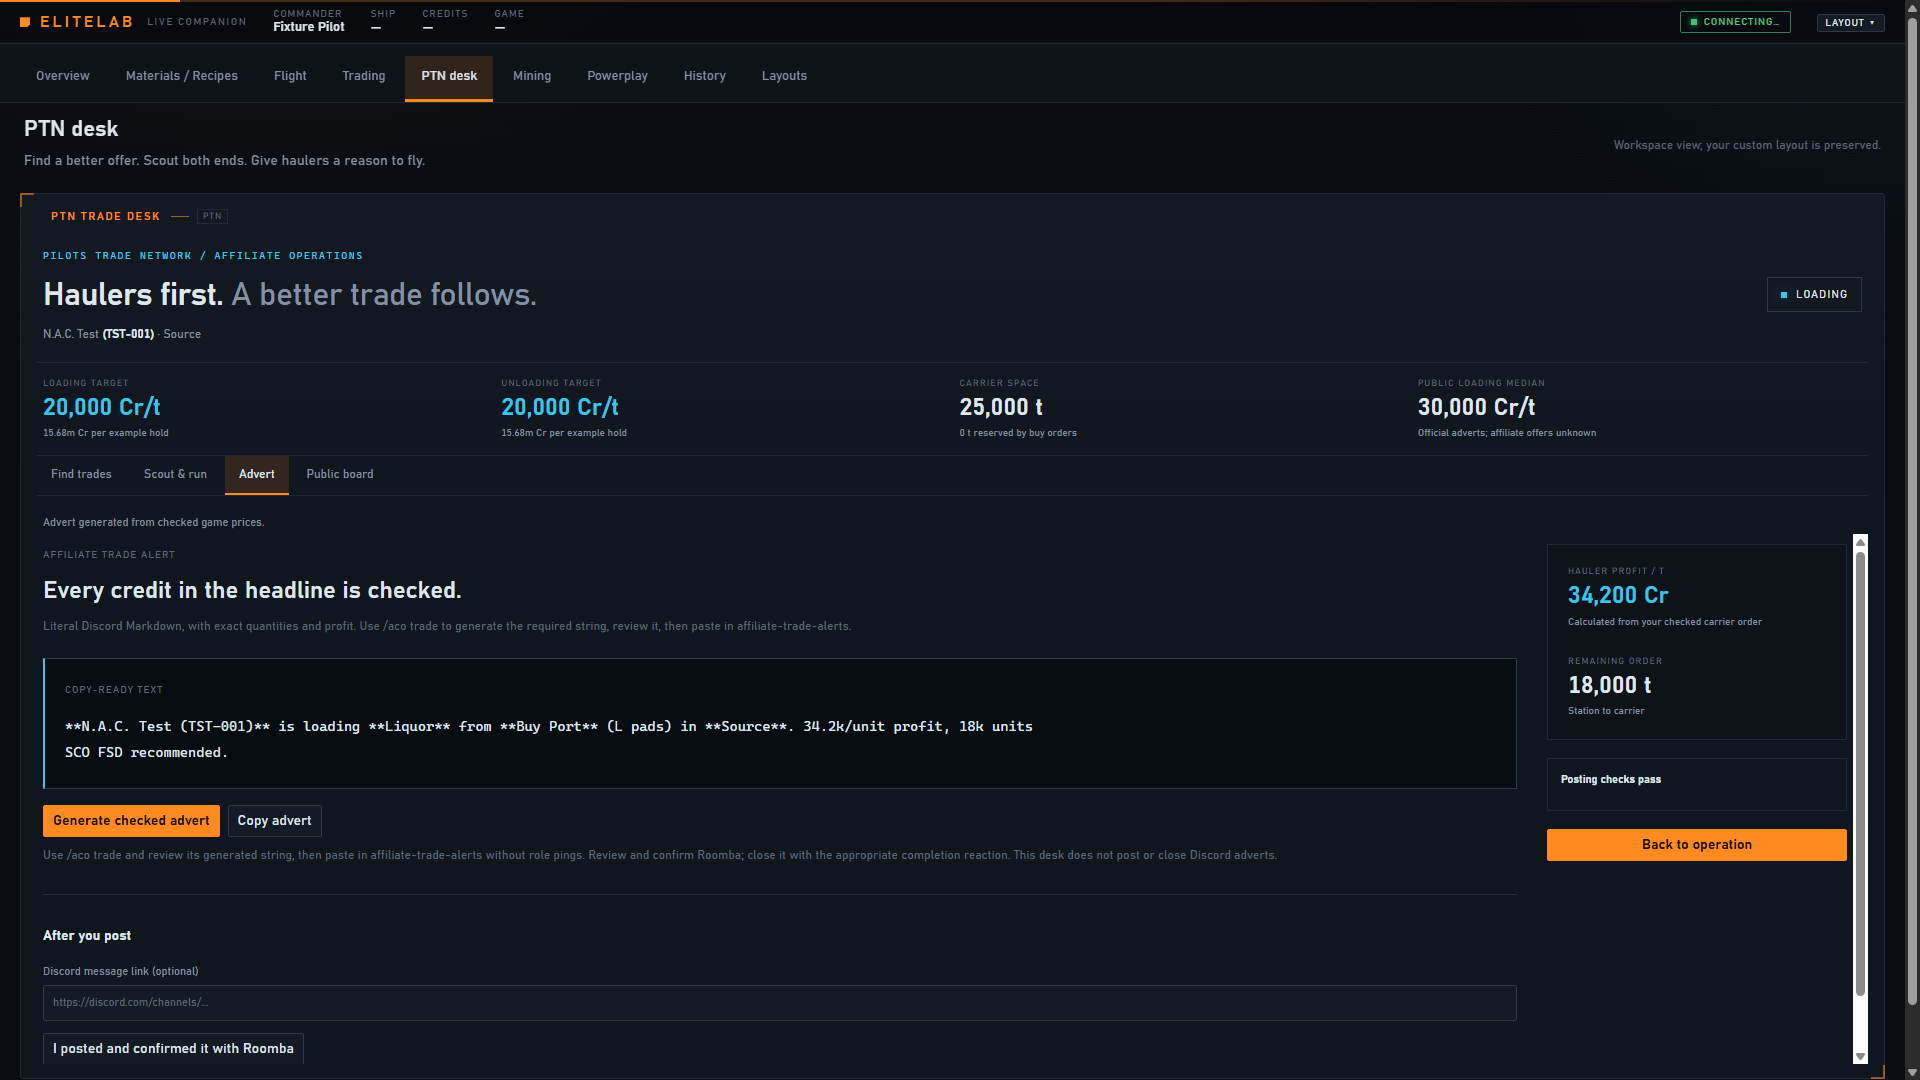
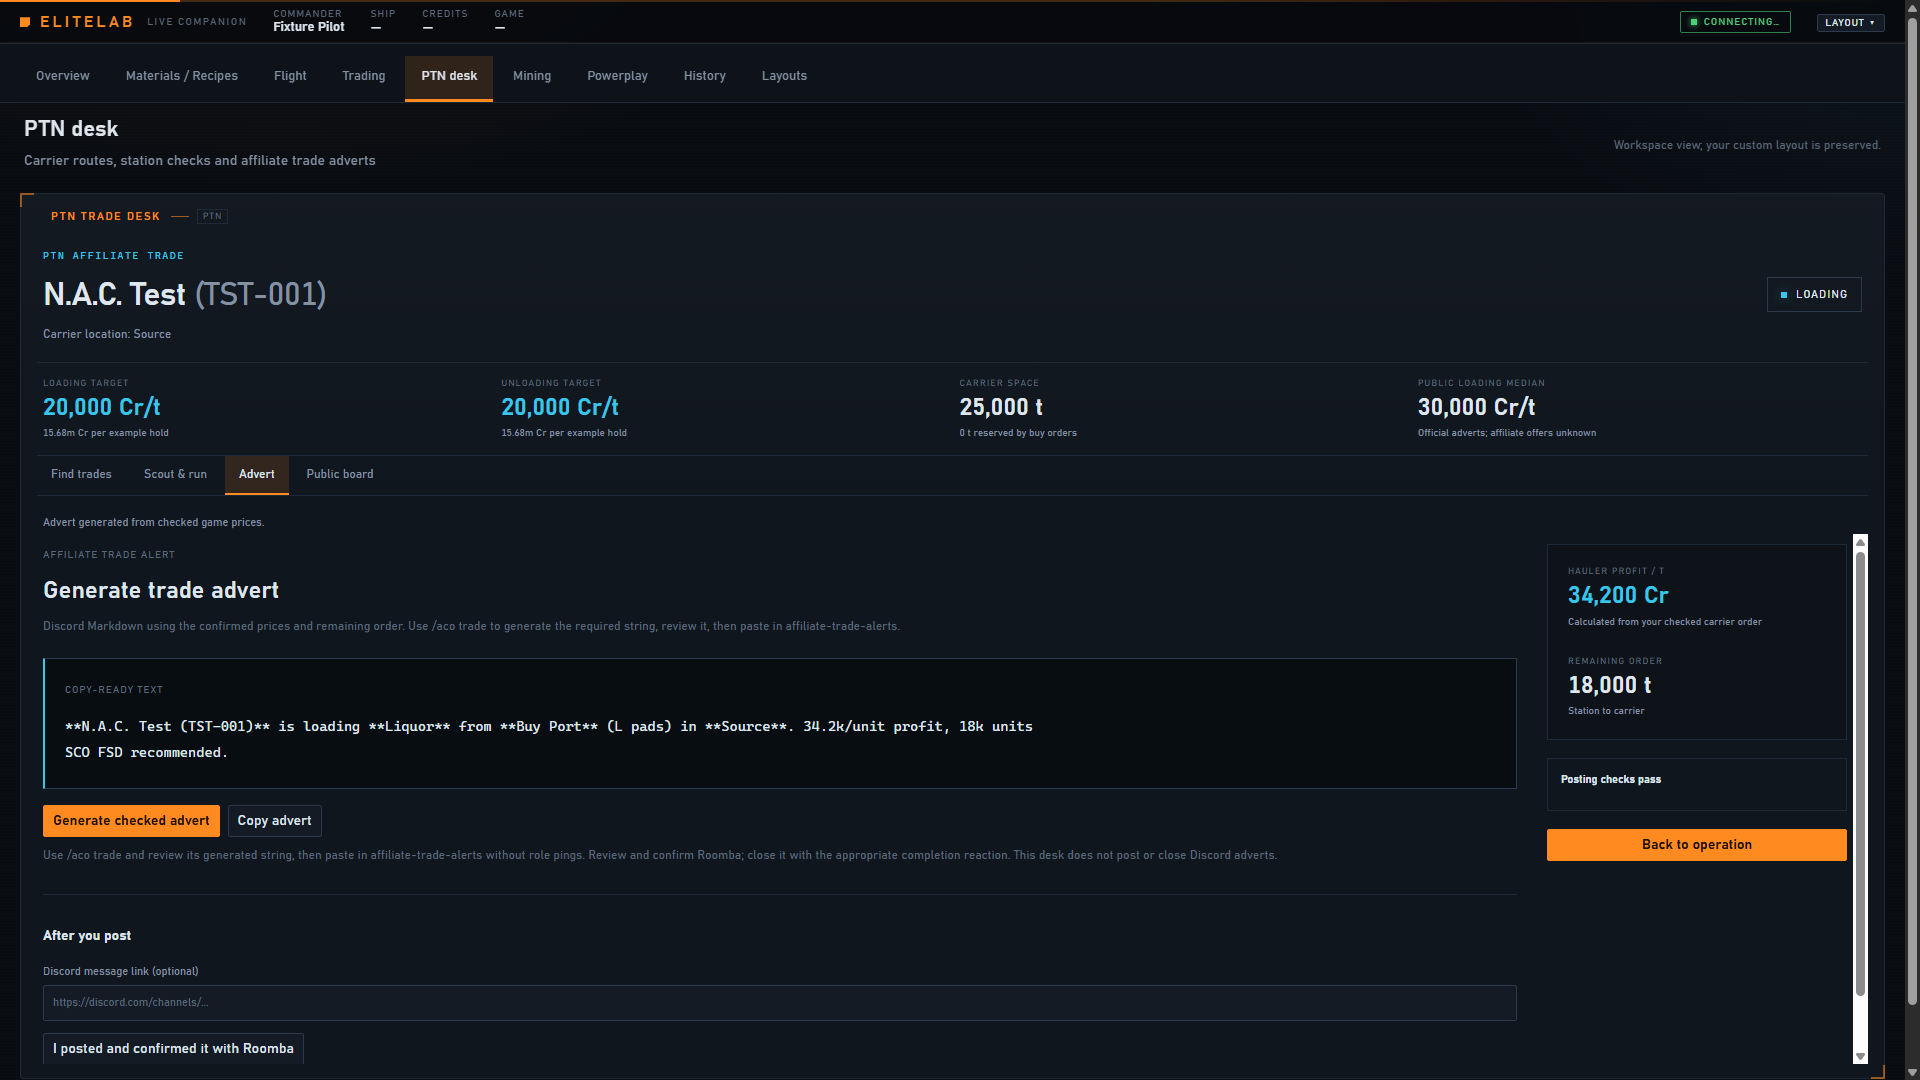
Remove PTN slogans and separate rejected routes from trade results

Changed region(s): [[0.0312, 0.2139, 0.2812, 0.3361], [0.0312, 0.5194, 0.25, 0.5806], [0.0312, 0.1222, 0.2188, 0.1528]]

diff --git a/modules/ptn/web/card.js b/modules/ptn/web/card.js
@@ -20,12 +20,12 @@
 
   function searchForm(u,d){
     const p=u.prefs;
-    return `<form data-ptn-search class="ptn-search"><div class="k">Your offer, your rules</div><h3>Make the trip worth it.</h3>
+    return `<form data-ptn-search class="ptn-search"><div class="k">Route search</div><h3>Search settings</h3>
       <p class="note">Payout floors apply to each leg. Nearby orbital stations with large pads only.</p>
-      <button type="submit" class="primary ptn-scan" ${u.busy||d.searching?'disabled':''}>${u.busy||d.searching?'Scanning orbital markets...':'Find hauler-friendly trades'} <span aria-hidden="true">&rarr;</span></button>
+      <button type="submit" class="primary ptn-scan" ${u.busy||d.searching?'disabled':''}>${u.busy||d.searching?'Searching markets...':'Search routes'}</button>
       <div class="ptn-presets">${[20000,30000,40000].map(n=>`<button type="button" class="mini ${p.loading_floor===n&&p.unloading_floor===n?'primary':''}" data-ptn-payout="${n}">${n/1000}k / leg</button>`).join('')}</div>
       <div class="ptn-fields">${field('loading_floor','Loading profit / t',p.loading_floor,1,1000000)}${field('unloading_floor','Unloading profit / t',p.unloading_floor,1,1000000)}${field('quantity','Order size / t',p.quantity,1,25000)}${field('owner_floor','Carrier margin / t',p.owner_floor,0,1000000)}</div>
-      <label class="ptn-check-line"><span><input type="checkbox" name="share_surplus" ${p.share_surplus?'checked':''}> Hauler-first: share the extra spread</span><small>Balance the best payouts across both legs after reserving your carrier margin.</small></label>
+      <label class="ptn-check-line"><span><input type="checkbox" name="share_surplus" ${p.share_surplus?'checked':''}> Share remaining spread with haulers</span><small>Split the remaining spread across both legs after reserving your carrier margin.</small></label>
       <div class="ptn-check-line"><label><input type="checkbox" name="skip_common" ${p.skip_common?'checked':''}> Skip common carrier cargo</label><small>${esc((d.common||[]).join(', '))}</small></div>
       <label class="ptn-check-line"><span><input type="checkbox" name="avoid_active" ${p.avoid_active?'checked':''}> Skip commodities on the public PTN board</span><small>Official adverts only; affiliate competition remains unknown.</small></label>
       <label>Also exclude<input name="excluded" value="${esc(p.excluded)}" placeholder="Comma-separated commodities"></label>
@@ -38,22 +38,22 @@
 
   function routeCard(r,u,index){
     const c=r.pricing,p=r.settings,selected=u.data.plan?.route.id===r.id;
-    return `<article class="ptn-route ${r.viable?'':'ptn-prospect'}"><div class="ptn-route-top"><div class="ptn-route-name"><span class="ptn-rank">${String(index+1).padStart(2,'0')}</span><div><span class="k">${r.viable?'Meets your payout floors':'Scouting lead'}</span><h3>${esc(r.name)}</h3></div></div><span class="tag ${r.viable?'ok':'warn'}">${r.viable?'Ready to scout':c.spread_short?`${fmt(c.spread_short)} Cr/t more spread needed`:'Review price settings'}</span></div>
-      <div class="ptn-route-numbers">${metric('Hauler / loading',money(c.loading_per_ton)+'/t',`${short(c.loading_per_ton*p.hauler_capacity)} Cr / ${fmt(p.hauler_capacity)} t`,'ptn-hauler')}${metric('Hauler / unloading',money(c.unloading_per_ton)+'/t',`${short(c.unloading_per_ton*p.hauler_capacity)} Cr / ${fmt(p.hauler_capacity)} t`,'ptn-hauler')}${metric('Carrier after reserve',short(c.owner_after_reserve)+' Cr',`${money(c.owner_per_ton)}/t margin`,c.owner_after_reserve>=0?'':'bad')}</div>
+    const requiredSpread=p.loading_floor+p.unloading_floor+Math.max(p.owner_floor,Math.ceil(p.cost_reserve/r.quantity)),shortfall=Math.max(0,requiredSpread-c.gross_per_ton);
+    return `<article class="ptn-route ${r.viable?'':'ptn-prospect'}"><div class="ptn-route-top"><div class="ptn-route-name"><span class="ptn-rank">${String(index+1).padStart(2,'0')}</span><div><span class="k">${r.viable?'Meets payout requirements':'Rejected candidate'}</span><h3>${esc(r.name)}</h3></div></div><span class="tag ${r.viable?'ok':'warn'}">${r.viable?'Requires station checks':shortfall?`${fmt(shortfall)} Cr/t shortfall`:'Requirements not met'}</span></div>
+      <div class="ptn-route-numbers">${r.viable?`${metric('Hauler / loading',money(c.loading_per_ton)+'/t',`${short(c.loading_per_ton*p.hauler_capacity)} Cr / ${fmt(p.hauler_capacity)} t`,'ptn-hauler')}${metric('Hauler / unloading',money(c.unloading_per_ton)+'/t',`${short(c.unloading_per_ton*p.hauler_capacity)} Cr / ${fmt(p.hauler_capacity)} t`,'ptn-hauler')}${metric('Carrier after reserve',short(c.owner_after_reserve)+' Cr',`${money(c.owner_per_ton)}/t margin`)}`:`${metric('Available station spread',money(c.gross_per_ton)+'/t')}${metric('Required minimum spread',money(requiredSpread)+'/t')}${metric('Payout shortfall',shortfall?money(shortfall)+'/t':'See rejection details','','warn')}`}</div>
       <div class="ptn-stops">${stop(r.buy,'Load from')}${stop(r.sell,'Unload to')}</div>
-      <div class="ptn-route-foot"><div class="note">${fmt(r.quantity)} t &middot; ${fmt(r.route_distance)} Ly carrier leg &middot; ${r.supply_buffer}&times; supply buffer<br>${r.official_competitors==null?'Official competition unknown':`${r.official_competitors} other official loading adverts at source`}<br>Scenario: ${short(r.hauler_hour_scenario)} Cr/h at your ${p.cycle_minutes} min round trip</div>
-      <button type="button" class="${r.viable?'primary':''}" data-ptn-select="${esc(r.id)}" ${u.busy?'disabled':''}>${selected?'Restart scouting this route':'Scout this route'} &rarr;</button></div>
+      <div class="ptn-route-foot"><div class="note">${fmt(r.quantity)} t &middot; ${fmt(r.route_distance)} Ly carrier leg &middot; ${r.supply_buffer}&times; supply buffer<br>${r.official_competitors==null?'Official competition unknown':`${r.official_competitors} other official loading adverts at source`}${r.viable?`<br>Scenario: ${short(r.hauler_hour_scenario)} Cr/h at your ${p.cycle_minutes} min round trip`:''}</div>
+      <button type="button" class="${r.viable?'primary':''}" data-ptn-select="${esc(r.id)}" ${u.busy?'disabled':''}>${selected?'Restart station checks':r.viable?'Check this route':'Inspect candidate'}</button></div>
       ${r.reasons.length?`<p class="ptn-reasons">${r.reasons.map(esc).join(' ')}</p>`:''}</article>`;
   }
 
   function discovery(u,d){
     const r=d.result,qualified=r?.rows.filter(row=>row.viable)||[],near=r?.rows.filter(row=>!row.viable)||[];
     const rows=u.near?near:qualified;
-    return `<div class="ptn-discovery">${searchForm(u,d)}<section class="ptn-opportunities"><div class="ptn-section-heading"><div><span class="k">Route intelligence</span><h3>${r?`${qualified.length} offers meet your floors`:'The next trade starts here.'}</h3></div><div class="ptn-actions">${button('qualified',`Qualified ${qualified.length}`,`mini ${!u.near?'primary':''}`)}${button('near',`Scouting leads ${near.length}`,`mini ${u.near?'primary':''}`)}</div></div>
+    return `<div class="ptn-discovery">${searchForm(u,d)}<section class="ptn-opportunities"><div class="ptn-section-heading"><div><span class="k">Search results</span><h3>${r?`${qualified.length} matching routes`:'Carrier routes'}</h3></div><div class="ptn-actions">${button('qualified',`Matching ${qualified.length}`,`mini ${!u.near?'primary':''}`)}${button('near',`Rejected ${near.length}`,`mini ${u.near?'primary':''}`)}</div></div>
       ${r?`<p class="note">${r.scanned} commodities scanned near ${esc(r.origin)} &middot; ${age(r.checked_at)}. ${esc(r.scope)}</p>`:''}
       ${r?.warnings.length?`<details class="ptn-more"><summary class="warn">${r.warnings.length} data notes</summary>${r.warnings.map(w=>`<p class="note">${esc(w)}</p>`).join('')}</details>`:''}
-      ${rows.length?rows.map((row,i)=>routeCard(row,u,i)).join(''):`<div class="ptn-empty"><div class="ptn-empty-orbit" aria-hidden="true"><span></span></div><span class="k">${r?'Your floors stay in place':'A different kind of carrier trade'}</span><h3>${r?'No qualifying offers in this scan.':'Great payouts. A short loop. Room for everyone.'}</h3><p>${r?'Review scouting leads for the exact gap, expand your radius, or change your payout targets. Market reports can miss routes; scout promising stops in game.':'Scan beyond the usual cargo. Compare both hauler payouts, station supply, exact approaches and the carrier margin before choosing a route.'}</p>${r&&near.length&&!u.near?button('near','Review scouting leads','primary'):''}
-      <div class="ptn-pillars"><span>01 <b>Find the spread</b></span><span>02 <b>Scout both markets</b></span><span>03 <b>Post an exact offer</b></span></div></div>`}
+      ${rows.length?rows.map((row,i)=>routeCard(row,u,i)).join(''):`<div class="ptn-empty"><h3>${r?u.near?'No rejected candidates.':'No routes match these filters.':'Search carrier routes'}</h3><p>${r?'Change the search area, commodity exclusions or payout minimums to search again. Rejected candidates show which requirements failed.':'Compare station prices, supply, demand and carrier margin using the settings on the left.'}</p>${r&&near.length&&!u.near?button('near','View rejected candidates'):''}</div>`}
     </section></div>`;
   }
 
@@ -70,7 +70,7 @@
         <div class="ptn-route-numbers">${metric('Carrier buy setting',price.buy_percent==null?'Unknown':price.buy_percent+'%',money(price.carrier_buy)+'/t')}${metric('Carrier sell setting',price.sell_percent==null?'Unknown':price.sell_percent+'%',money(price.carrier_sell)+'/t')}${metric('Carrier after reserve',short(price.owner_after_reserve)+' Cr',`${short(price.hauler_total)} Cr to haulers`)}</div>
         <div class="ptn-economics"><div><span>Gross station spread</span><b>${money(price.gross_total)}</b></div><div><span>Loading + unloading haulers</span><b>${money(price.hauler_total)}</b></div><div><span>Fuel & fees reserve</span><b>${money(price.cost_reserve)}</b></div><div><span>Estimated carrier remainder</span><b>${money(price.owner_after_reserve)}</b></div></div>
         <p class="note">Suggested settings preserve both minimum payouts after rounding. Confirm the displayed game prices below. Your ${fmt(s.hauler_capacity)} t hold / ${s.cycle_minutes} min cycle scenario is ${o.runs} round trips per leg; about ${o.scenario_minutes} min per leg with ${s.haulers} haulers, assuming continuous work.</p>
-      </div><aside class="ptn-flight-checks"><span class="k">${o.phase==='loading'?'Loading':'Unloading'} / posting checks</span><h3>${o.ready?'Your advert is ready.':'Make it easy to say yes.'}</h3>
+      </div><aside class="ptn-flight-checks"><span class="k">${o.phase==='loading'?'Loading':'Unloading'} / posting checks</span><h3>${o.ready?'Ready to generate advert':'Posting requirements'}</h3>
         ${['loading','unloading'].includes(p.stage)?`<form data-ptn-confirm><div class="ptn-fields">${field('actual_price','Actual carrier order / Cr',draft.price,1)}${field('remaining','Tonnes still available',draft.remaining,0,p.route.quantity)}</div>
         ${[['near_station','Carrier parked close to the station body'],['docking_open','Docking access open to haulers'],['funds_checked','Order funded; commodity market open'],['competition_checked','Other carriers and current supply/demand checked']].map(([name,label])=>`<label class="ptn-owner-check"><input name="${name}" type="checkbox" ${draft.checks[name]?'checked':''}>${label}</label>`).join('')}
         <label class="ptn-owner-check"><input name="sco" type="checkbox" ${draft.sco?'checked':''}>Add "SCO FSD recommended" below advert</label>
@@ -85,8 +85,8 @@
 
   function advertPane(u,d){
     const p=d.plan,o=d.operation;
-    if(!p)return `<div class="ptn-empty"><h3>Your next advert starts with a scouted route.</h3>${button('find','Find a trade','primary')}</div>`;
-    return `<div class="ptn-advert-layout"><section><span class="k">Affiliate trade alert</span><h3>Every credit in the headline is checked.</h3><p class="note">Literal Discord Markdown, with exact quantities and profit. Use /aco trade to generate the required string, review it, then paste in affiliate-trade-alerts.</p>
+    if(!p)return `<div class="ptn-empty"><h3>Select and check a route before generating an advert.</h3>${button('find','Search routes','primary')}</div>`;
+    return `<div class="ptn-advert-layout"><section><span class="k">Affiliate trade alert</span><h3>Generate trade advert</h3><p class="note">Discord Markdown using the confirmed prices and remaining order. Use /aco trade to generate the required string, review it, then paste in affiliate-trade-alerts.</p>
       <div class="ptn-advert-preview"><span class="k">Copy-ready text</span><pre data-ptn-advert-text>${esc(u.advert?.copy_text||'Resolve the posting checks, then generate your advert.')}</pre></div>
       <div class="ptn-actions">${button('generate','Generate checked advert','primary',u.busy||!o.ready)}${button('copy-advert','Copy advert','',u.busy||!o.ready)}</div>
       <p class="note">${u.advert?esc(u.advert.instructions):'The server checks readiness again when you generate or copy. The desk never sends a Discord message.'}</p>
@@ -99,7 +99,7 @@
 
   function boardPane(u,d){
     const b=d.board;
-    return `<div class="ptn-board"><div class="ptn-section-heading"><div><span class="k">Public PTN pulse</span><h3>What haulers can choose right now.</h3></div>${button('board-refresh',u.busy?'Refreshing...':'Refresh public board','primary',u.busy)}</div>
+    return `<div class="ptn-board"><div class="ptn-section-heading"><div><span class="k">Public board</span><h3>Official PTN trade adverts</h3></div>${button('board-refresh',u.busy?'Refreshing...':'Refresh public board','primary',u.busy)}</div>
       <p class="note">${esc(b?.scope||'Public official missions only. Affiliate adverts and unadvertised carriers are outside this feed.')}</p>
       ${b&&!b.available?`<p class="warn">Public board unavailable: ${esc(b.error)}</p>`:''}
       <div class="ptn-board-metrics">${['loading','unloading'].map(phase=>metric(`${phase} median`,b?.benchmarks?.[phase]==null?'Unknown':money(b.benchmarks[phase])+'/t','Current public official adverts','ptn-hauler')).join('')}${metric('Official missions',fmt(b?.missions?.length),b?.updated_at?'Feed updated '+age(b.updated_at):'Refresh to compare')}</div>
@@ -119,7 +119,7 @@
         const draftId=p?p.id+':'+p.stage:'';
         if(draftId!==u.draftId||!u.draftDirty){if(draftId!==u.draftId)u.advert=null;u.draftId=draftId;u.draftDirty=false;u.draft={price:o?.order?.price??o?.pricing[o.phase==='unloading'?'carrier_sell':'carrier_buy']??'',remaining:o?.remaining??0,checks:{...o?.checks},sco:p?.sco!==false};}
         if(!tabs[u.tab])u.tab='find';
-        el.innerHTML=`<div class="ptn-desk"><div class="ptn-hero"><div><span class="ptn-eyebrow">Pilots Trade Network / affiliate operations</span><h3>Haulers first.<span> A better trade follows.</span></h3><p>${c.carrier?`${esc(c.carrier)} <b>(${esc(c.callsign)})</b> &middot; ${esc(c.system||'Location unknown')}`:'Open Carrier Management to identify your carrier.'}</p></div><div class="ptn-hero-state"><span class="ptn-live-dot"></span>${p?esc(p.stage):'Ready to discover'}</div></div>
+        el.innerHTML=`<div class="ptn-desk"><div class="ptn-hero"><div><span class="ptn-eyebrow">PTN affiliate trade</span><h3>${esc(c.carrier||'Carrier not identified')}<span>${c.callsign?` (${esc(c.callsign)})`:''}</span></h3><p>${c.carrier?`Carrier location: ${esc(c.system||'Unknown')}`:'Open Carrier Management to identify your carrier.'}</p></div><div class="ptn-hero-state"><span class="ptn-live-dot"></span>${p?esc(p.stage):'No active plan'}</div></div>
           <div class="ptn-overview">${metric('Loading target',money(u.prefs.loading_floor)+'/t',`${short(u.prefs.loading_floor*u.prefs.hauler_capacity)} Cr per example hold`,'ptn-hauler')}${metric('Unloading target',money(u.prefs.unloading_floor)+'/t',`${short(u.prefs.unloading_floor*u.prefs.hauler_capacity)} Cr per example hold`,'ptn-hauler')}${metric('Carrier space',c.free_space==null?'Unknown':fmt(c.free_space)+' t',`${fmt(c.reserved_space)} t reserved by buy orders`)}${metric('Public loading median',d.board?.benchmarks?.loading==null?'Refresh board':money(d.board.benchmarks.loading)+'/t','Official adverts; affiliate offers unknown')}</div>
           <nav class="view-tabs ptn-tabs" role="tablist" aria-label="PTN trade desk">${Object.entries(tabs).map(([id,label])=>`<button id="ptn-tab-${id}" type="button" data-ptn-tab="${id}" role="tab" aria-selected="${u.tab===id}" aria-controls="ptn-pane" tabindex="${u.tab===id?0:-1}">${label}</button>`).join('')}</nav>
           <div class="ptn-status ${u.error?'bad':''}" role="status" aria-live="polite">${esc(u.status)}</div><div class="ptn-content" id="ptn-pane" role="tabpanel" aria-labelledby="ptn-tab-${u.tab}">${u.tab==='find'?discovery(u,d):u.tab==='run'?operation(u,d):u.tab==='advert'?advertPane(u,d):boardPane(u,d)}</div></div>`;
@@ -136,7 +136,7 @@
       const tab=name=>{u.tab=name;ls.set('ptn.tab.v1',name);draw();};
       el.addEventListener('input',event=>{const t=event.target;if(t.closest('[data-ptn-search]')){u.prefs[t.name]=t.type==='checkbox'?t.checked:t.type==='number'?Number(t.value):t.value;ls.set(KEY,u.prefs);}else if(t.closest('[data-ptn-confirm]')){u.draftDirty=true;if(['near_station','docking_open','funds_checked','competition_checked'].includes(t.name))u.draft.checks[t.name]=t.checked;else if(t.name==='actual_price')u.draft.price=t.value;else if(t.name==='remaining')u.draft.remaining=t.value;else if(t.name==='sco')u.draft.sco=t.checked;}else if(t.name==='discord_link')u.postLink=t.value;});
       el.addEventListener('submit',event=>{event.preventDefault();const form=event.target;
-        if(form.matches('[data-ptn-search]'))request(async()=>{const result=await Lab.api('/api/ptn/search',u.prefs);u.data={...u.data,result,searching:false};u.near=!result.rows.some(r=>r.viable)&&result.rows.length>0;u.status=`Scan complete: ${result.scanned} commodities checked. ${result.rows.filter(r=>r.viable).length} qualifying offers.`;},'Checking markets and public offers...');
+        if(form.matches('[data-ptn-search]'))request(async()=>{const result=await Lab.api('/api/ptn/search',u.prefs);u.data={...u.data,result,searching:false};u.near=false;u.status=`Search complete: ${result.scanned} commodities checked. ${result.rows.filter(r=>r.viable).length} matching routes.`;},'Checking markets and public adverts...');
         if(form.matches('[data-ptn-confirm]'))request(async()=>{await post('/api/ptn/update',{action:'confirm',price:Number(u.draft.price),remaining:Number(u.draft.remaining),checks:{near_station:false,docking_open:false,funds_checked:false,competition_checked:false,...u.draft.checks},sco:u.draft.sco});u.draftDirty=false;u.advert=null;u.status='Checked game values saved.';});
       });
       el.addEventListener('click',event=>{

diff --git a/web/app.js b/web/app.js
@@ -83,7 +83,7 @@ import {StateFeed} from './state-feed.js';
     materials:{label:'Materials / Recipes',description:'Saved recipes, shared materials and recorded synthesis',cards:['wishlist','build']},
     flight:{label:'Flight',description:'Route planning and ship status',cards:['neutron','ship','location','map','feed']},
     trade:{label:'Trading',description:'Commodity routes, cargo and carrier operations',cards:['personal','loop','cargo','market','targets','haul','party','trade','carrier']},
-    ptn:{label:'PTN desk',description:'Find a better offer. Scout both ends. Give haulers a reason to fly.',cards:['ptn']},
+    ptn:{label:'PTN desk',description:'Carrier routes, station checks and affiliate trade adverts',cards:['ptn']},
     mining:{label:'Mining',description:'Mining sessions, locations and buyers',cards:['mining','cargo','map']},
     powerplay:{label:'Powerplay',description:'Pledge, merits, sell targets and combat',cards:['powerplay','merits','targets','loop','combat']},
     history:{label:'History',description:'Recorded balances, merit cycles and collection locations',cards:['history']},

diff --git a/docs/PTN-TRADING.md b/docs/PTN-TRADING.md
@@ -9,7 +9,7 @@ the existing Carrier job. Cancelling a local plan does not cancel those actions.
 
 Defaults: 18,000 t, 20,000 Cr/t minimum for loading and unloading, 2,500 Cr/t
 minimum carrier margin, a 5,000,000 Cr fuel/fee reserve, and 450 Ly radius and
-carrier leg. These are adjustable preferences, not PTN rules. Hauler-first mode
+carrier leg. These are adjustable preferences, not PTN rules. Surplus-sharing mode
 shares surplus spread after the owner's minimum: it maximizes the weaker hauler
 payout, then combined hauler payout, over the available carrier price settings.
 Switch it off to retain the spread above the two payout floors instead.
@@ -41,7 +41,9 @@ list: agronomic treatment, gold, silver, bertrandite, indite, gallite, palladium
 and tritium. The public-board exclusion optionally skips commodities with an
 official advert. Failure of that feed is shown as unknown competition. Known
 same-station, same-commodity loading adverts reduce the available supply buffer.
-The desk shows near misses without silently reducing payout floors.
+Matching routes are the default results. Rejected candidates are shown only when
+requested, with the available spread, required spread and shortfall instead of
+projected profits or hauler earnings. Payout floors are not silently reduced.
 
 The hauler credits/hour and operation-time figures are explicit scenarios using
 an editable example hold, round-trip time and number of haulers. They do not
